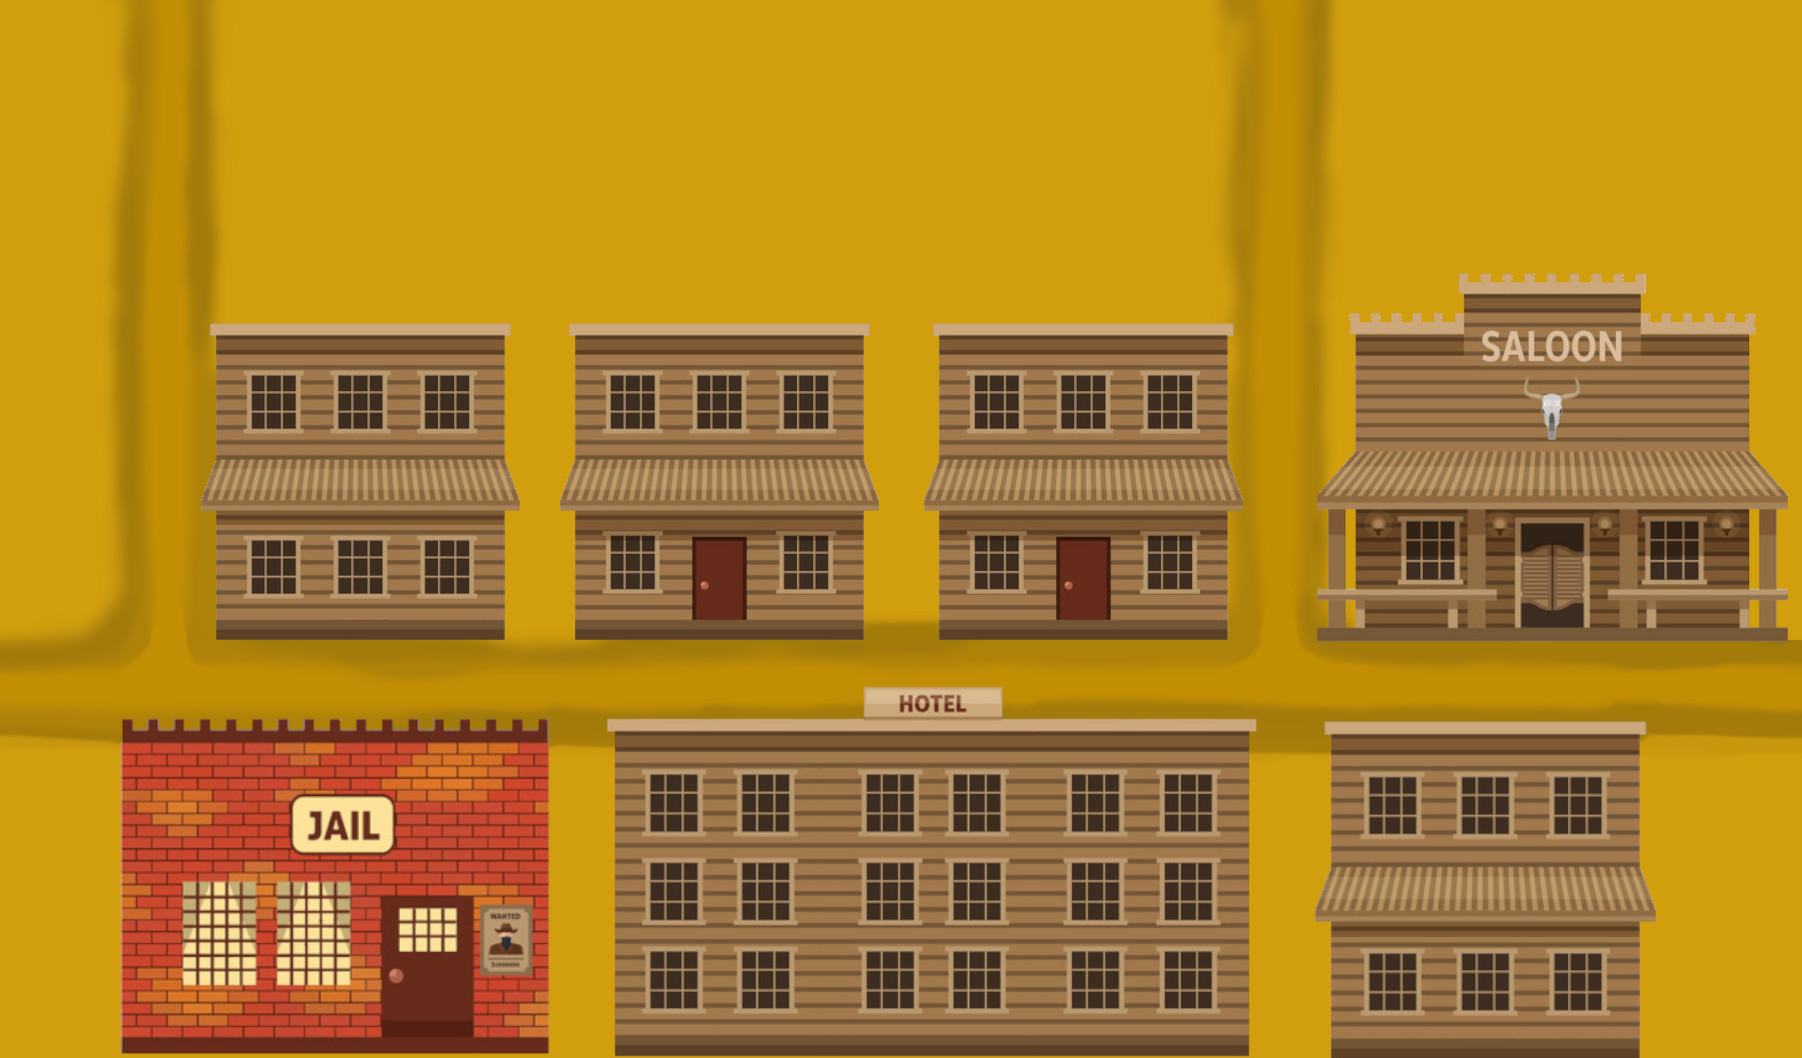
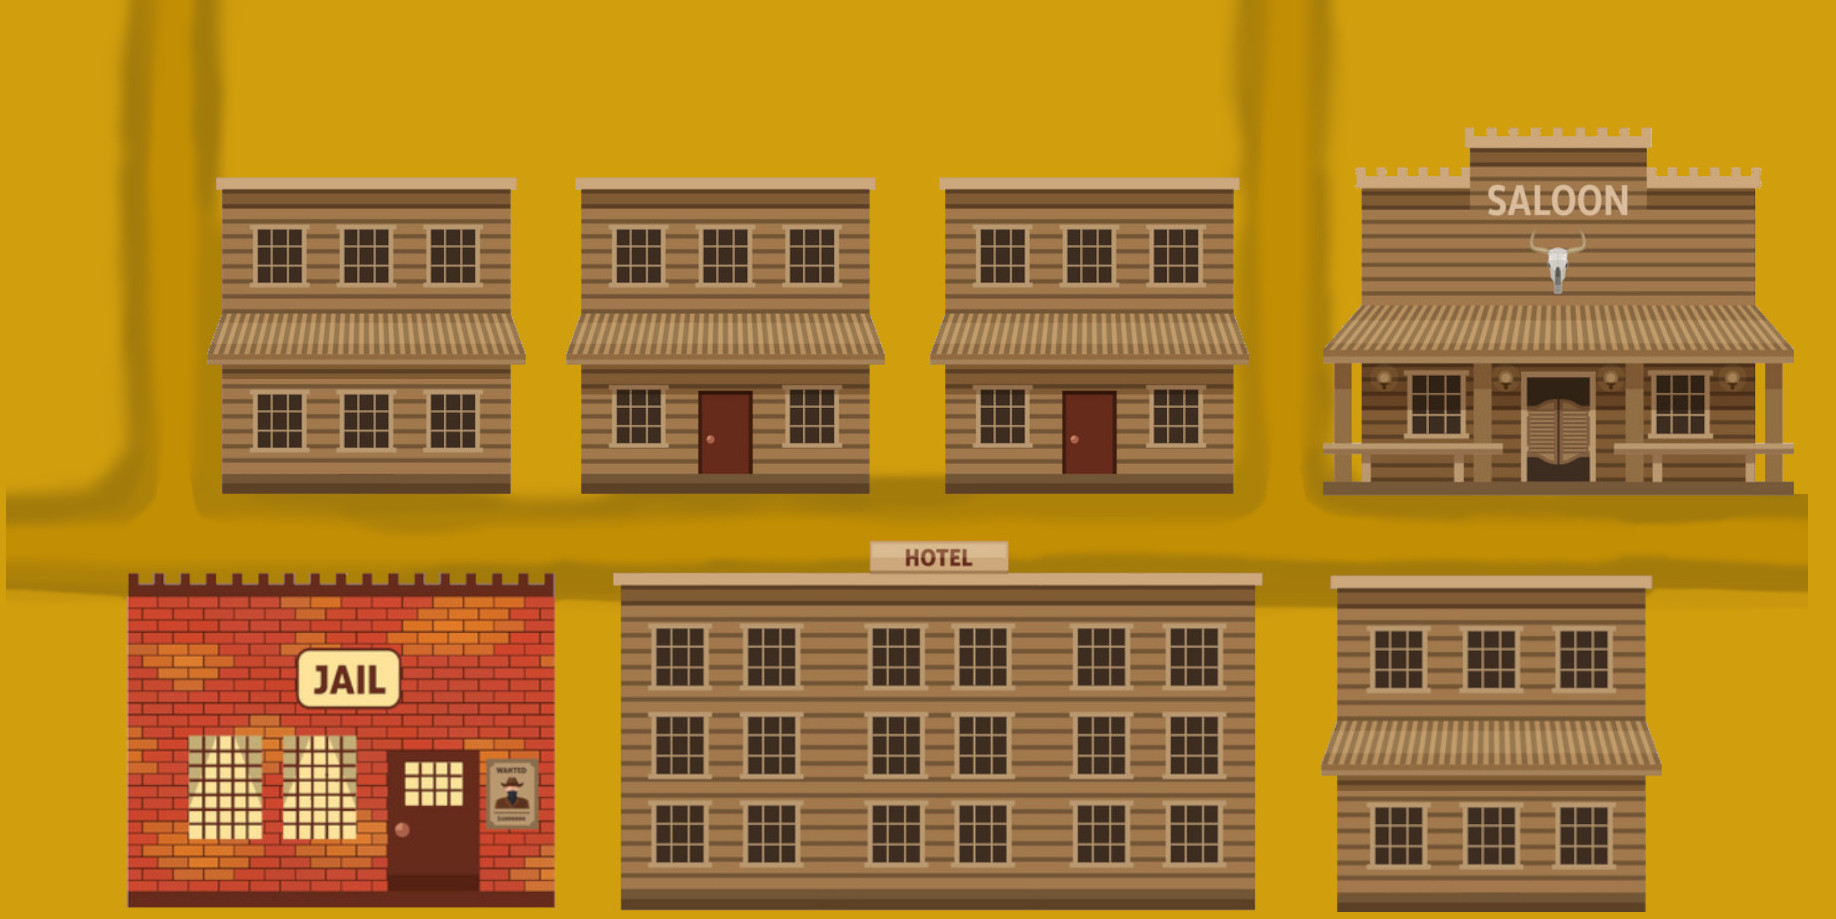
Add files via upload

diff --git a/style.css b/style.css
@@ -16,45 +16,46 @@
 }
 
 .style_of_map{
-    height: 930px;
+    /* height: 930px; */
+    width: 100%;
 }
 
 .room1{
     position: relative;
-    top: -41rem;
-    left: 78rem;
+    top: -44rem;
+    left: 90rem;
     /* background-color: aqua; */
     width: 188px;
 }
 
 .room2{
     position: relative;
-    top: -41rem;
-    left: 52rem;
+    top: -44rem;
+    left: 60rem;
     /* background-color: aqua; */
     width: 188px;
 }
 
 .room3{
     position: relative;
-    top: -41rem;
-    left: 12rem;
+    top: -44rem;
+    left: 15rem;
     /* background-color: aqua; */
     width: 188px;
 }
 
 .room4{
     position: relative;
-    top: -17rem;
-    left: 11rem;
+    top: -304px;
+    left: 13rem;
     /* background-color: aqua; */
     width: 188px;
 }
 
 .room5{
     position: relative;
-    top: -17rem;left: 44rem;
-    left: 44rem;
+    top: -304px;left: 44rem;
+    left: 51rem;
     /* background-color: aqua; */
     width: 188px;
 }
@@ -87,10 +88,16 @@
 }
 
 .nav_position{
-
+    position: absolute;
 }
 
 .newsImage{
     width: 237px;
   height: 418px;
+}
+
+body{
+    margin: 0;
+    background-color: #d19e0d;
+    overscroll-behavior-block: none;
 }
